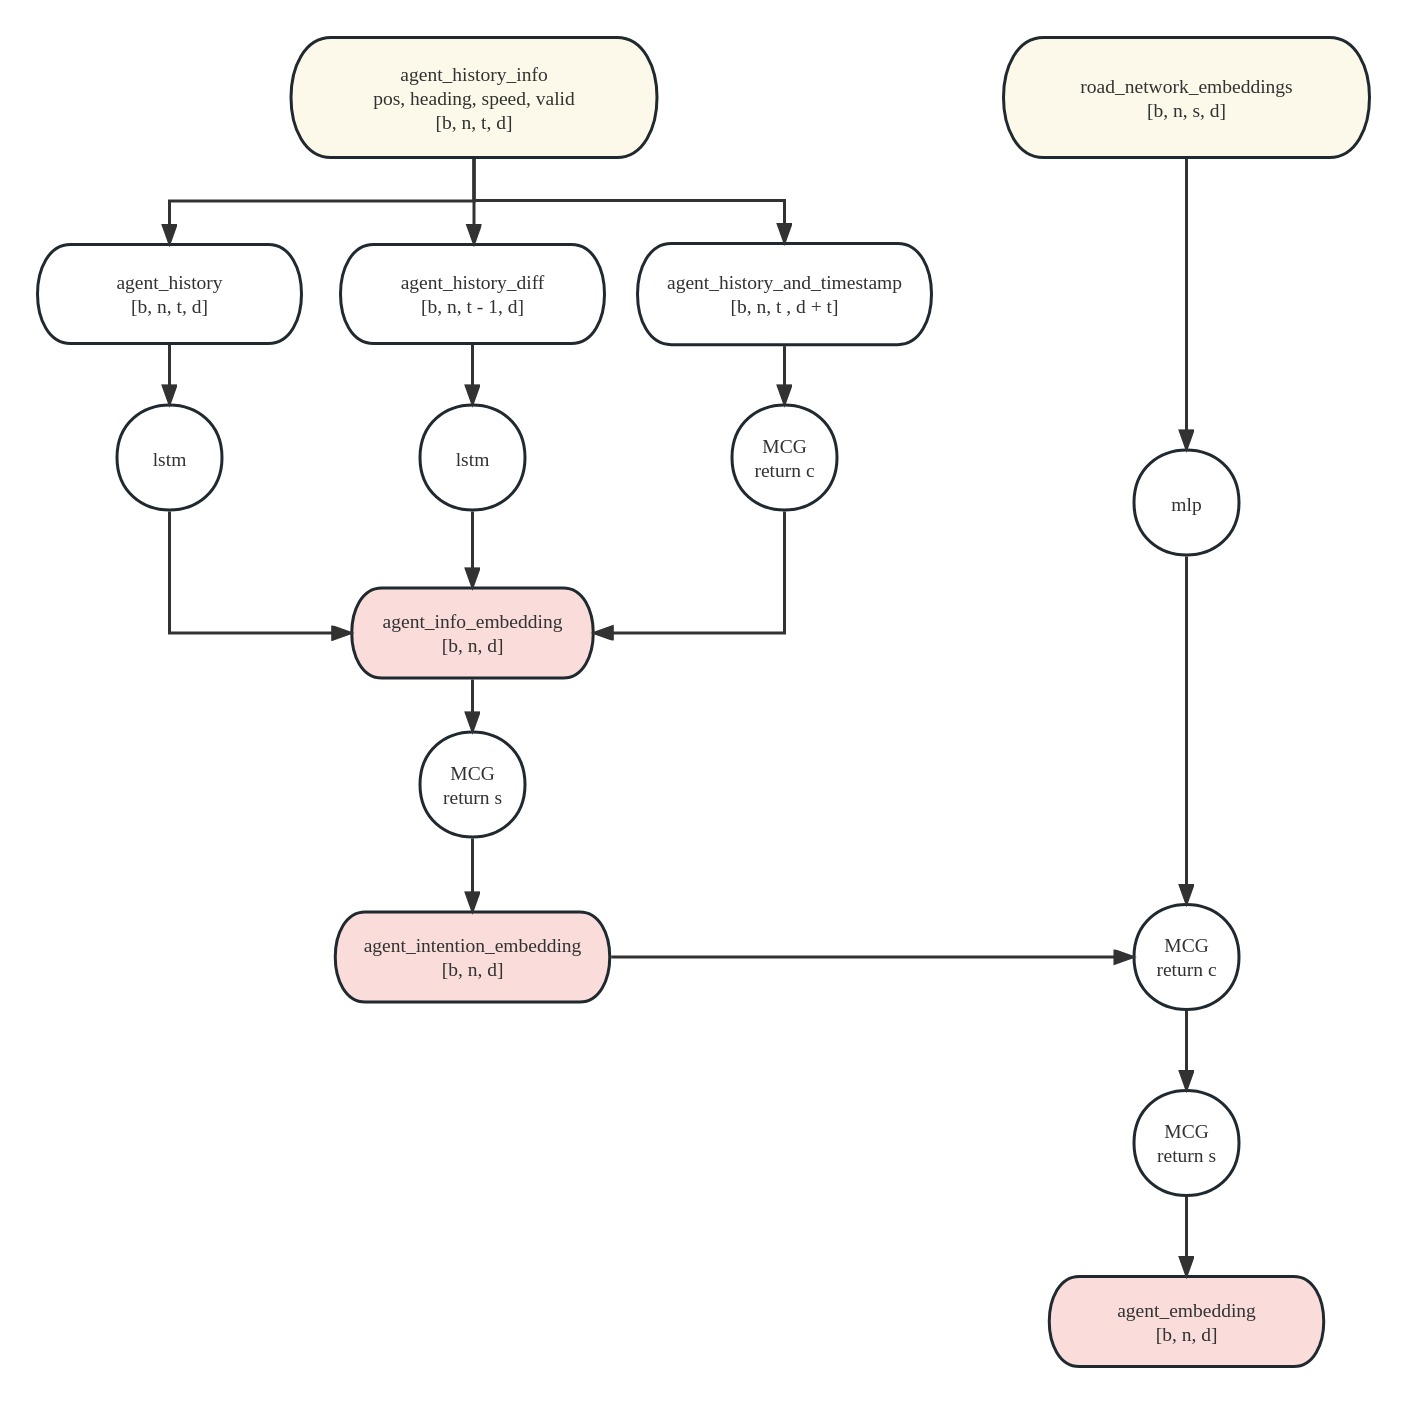
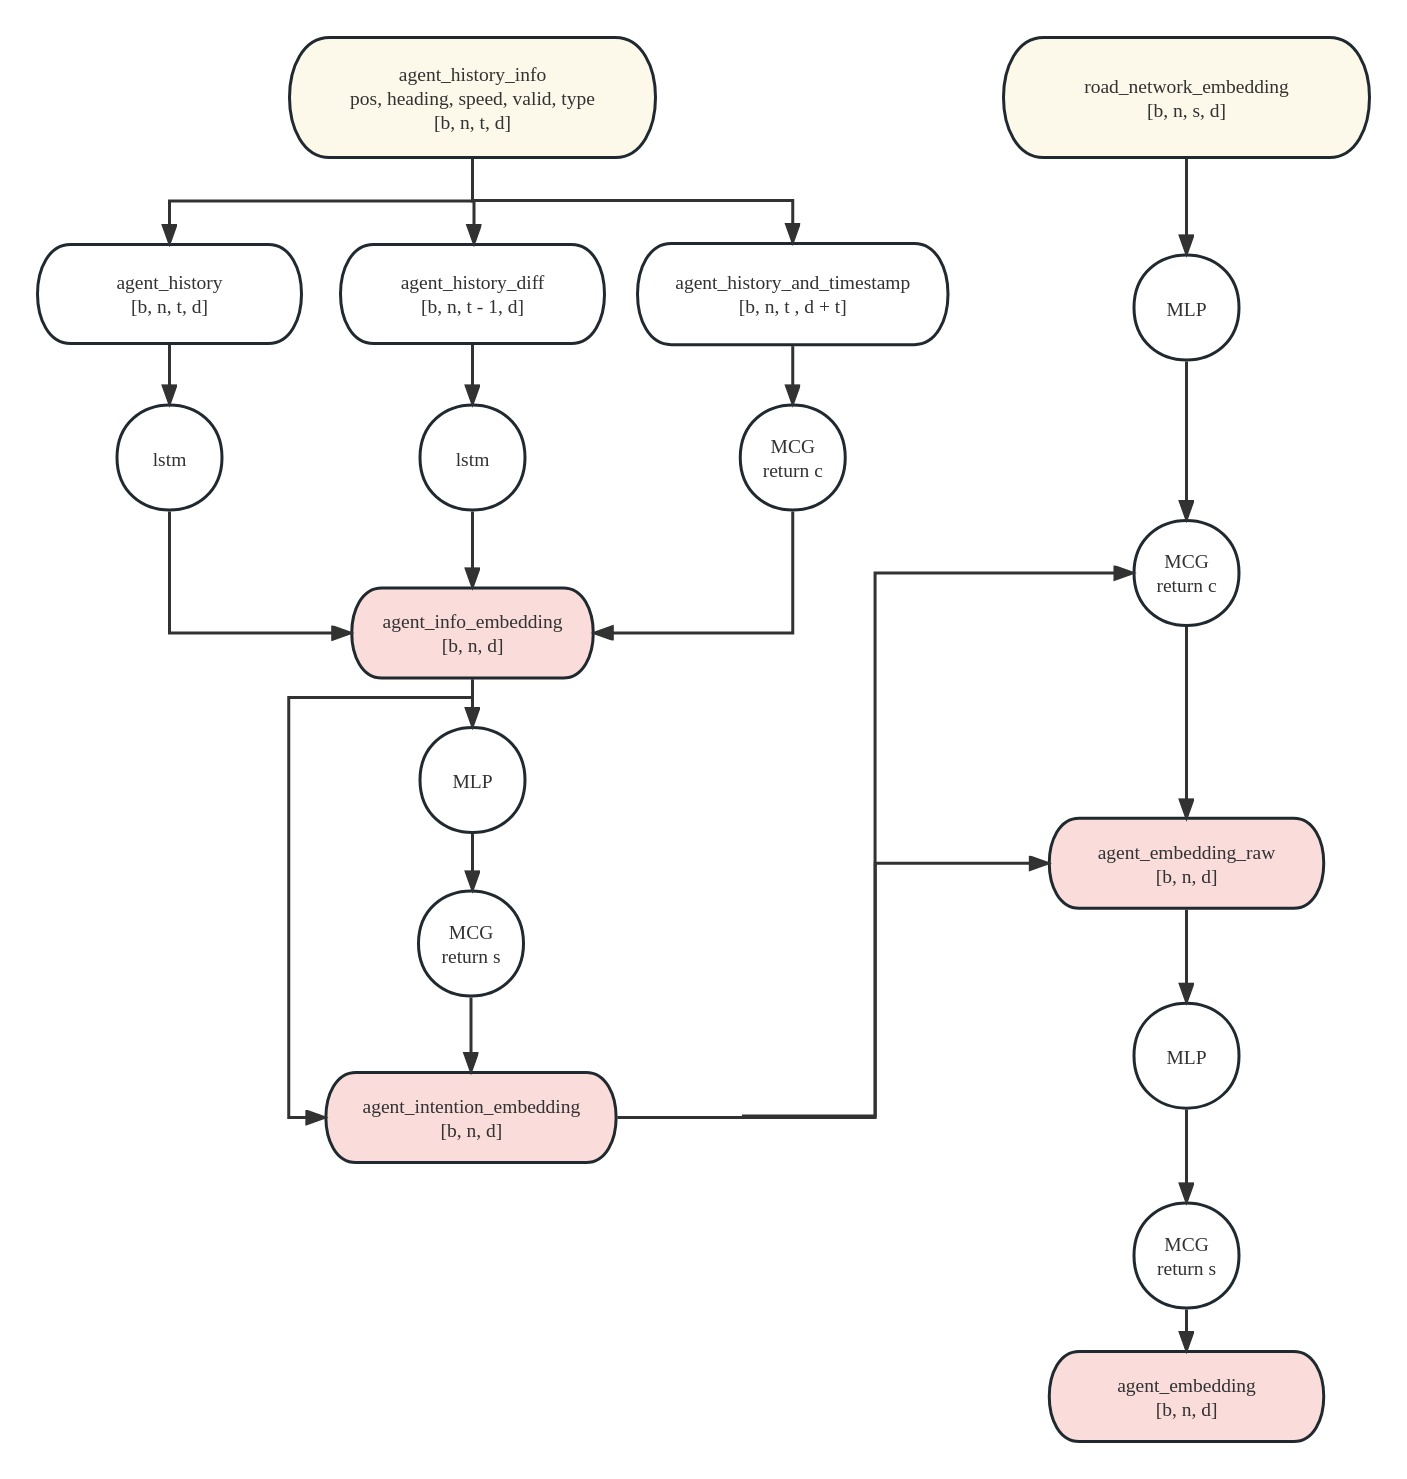
encoder

diff --git a/model/multipathpp.py b/model/multipathpp.py
@@ -6,85 +6,59 @@ class MultiPathPP(nn.Module):
     def __init__(self, config):
         super().__init__()
         self._config = config
-        self._agent_history_encoder = HistoryEncoder(config["agent_history_encoder"])
         self._agent_mcg_linear = NormalMLP(config["agent_mcg_linear"])
-        self._interaction_mcg_linear = NormalMLP(config["interaction_mcg_linear"])
-        self._interaction_history_encoder = HistoryEncoder(config["interaction_history_encoder"])
-        self._polyline_encoder = NormalMLP(config["polyline_encoder"])
-        self._history_mcg_encoder = MCGBlock(config["history_mcg_encoder"])
+        self._agent_history_encoder = HistoryEncoder(config["agent_history_encoder"])
+        self._agent_info_linear = MLP(config["agent_info_linear"])
         self._interaction_mcg_encoder = MCGBlock(config["interaction_mcg_encoder"])
-        self._agent_and_interaction_linear = NormalMLP(config["agent_and_interaction_linear"])
+        self._agent_intention_linear = NormalMLP(config["agent_intention_linear"])
+        self._polyline_encoder = NormalMLP(config["polyline_encoder"])
         self._roadgraph_mcg_encoder = MCGBlock(config["roadgraph_mcg_encoder"])
+        self._agent_linear = MLP(config["agent_linear"])
+        self._agent_mcg_encoder = MCGBlock(config["agent_mcg_encoder"])
         self._decoder_handler = DecoderHandler(config["decoder_handler_config"])
-        if config["multiple_predictions"]:
-            self._decoder = Decoder(config["final_decoder"])
-        if config["make_em"]:
-            self._em = EM()
-        if self._config["mha_decoder"]:
-            self._mha_decoder = MHA(config["mha_decoder"])
     
     def forward(self, data, num_steps):
-        target_scatter_numbers = torch.ones(data["batch_size"], dtype=torch.long).cuda()
-        target_scatter_idx = torch.arange(data["batch_size"], dtype=torch.long).cuda()
-        target_mcg_input_data_linear = self._agent_mcg_linear(data["target/history/mcg_input_data"])
-        assert torch.isfinite(target_mcg_input_data_linear).all()
-        target_agents_embeddings = self._agent_history_encoder(
-            target_scatter_numbers, target_scatter_idx, data["target/history/lstm_data"],
-            data["target/history/lstm_data_diff"], target_mcg_input_data_linear)
-        assert torch.isfinite(target_agents_embeddings).all()
-        other_mcg_input_data_linear = self._interaction_mcg_linear(
-            data["other/history/mcg_input_data"])
-        assert torch.isfinite(other_mcg_input_data_linear).all()
-
-        interaction_agents_embeddings = self._interaction_history_encoder(
-            data["other_agent_history_scatter_numbers"], data["other_agent_history_scatter_idx"],
-            data["other/history/lstm_data"], data["other/history/lstm_data_diff"],
-            other_mcg_input_data_linear)
-        assert torch.isfinite(interaction_agents_embeddings).all()
-        target_mcg_embedding = self._history_mcg_encoder(
-            target_scatter_numbers, target_scatter_idx, target_agents_embeddings)
-        assert torch.isfinite(target_mcg_embedding).all()
-        interaction_mcg_embedding = self._interaction_mcg_encoder(
-            data["other_agent_history_scatter_numbers"], data["other_agent_history_scatter_idx"],
-            interaction_agents_embeddings, target_agents_embeddings)
-        assert torch.isfinite(interaction_mcg_embedding).all()
+        # Encoder
+        # mcg_input_data_linear is [b, n, t, 128]
+        mcg_input_data_linear = self._agent_mcg_linear(data["history/mcg_input_data"])
+        assert torch.isfinite(mcg_input_data_linear).all()
+        # agents_info_embeddings is [b, n, 256]
+        agents_info_embeddings = self._agent_history_encoder(
+            data["target/history/lstm_data"], data["target/history/lstm_data_diff"],
+            mcg_input_data_linear)
+        agents_info_embeddings = self._agent_info_linear(agents_info_embeddings)
+        assert torch.isfinite(agents_info_embeddings).all()
+        # agent_interaction_embedding is [b, n, 256]
+        # s is [b, n, n, 256], c is [b, n, 256](it will be expanded to [b, n, 1, 256] in MCG)
+        agent_interaction_embedding = self._interaction_mcg_encoder(
+            torch.repeat(agents_info_embeddings.unsqueeze(1), [1, agents_info_embeddings.shape[1], 1, 1]), 
+            agents_info_embeddings, return_s=False)
+        assert torch.isfinite(agent_interaction_embedding).all()
+        # agent_intention_embedding is [b, n, 128]
+        agent_intention_embedding = torch.cat(
+            [agents_info_embeddings, agent_interaction_embedding], axis=-1)
+        agent_intention_embedding = self._agent_intention_linear(agent_intention_embedding)
+        assert torch.isfinite(agent_intention_embedding).all()
+        # segment_embeddings is [b, n, s, 128]
         segment_embeddings = self._polyline_encoder(data["road_network_embeddings"])
         assert torch.isfinite(segment_embeddings).all()
-        target_and_interaction_embedding = torch.cat(
-            [target_mcg_embedding, interaction_mcg_embedding], axis=-1)
-        assert torch.isfinite(target_and_interaction_embedding).all()
-        target_and_interaction_embedding_linear = self._agent_and_interaction_linear(
-            target_and_interaction_embedding)
-        assert torch.isfinite(target_and_interaction_embedding_linear).all()
+        # roadgraph_mcg_embedding is [b, n, 128]
+        # s is [b, n, s, 128], c is [b, n, 128](it will be expanded to [b, n, 1, 128] in MCG)
         roadgraph_mcg_embedding = self._roadgraph_mcg_encoder(
-            data["road_network_scatter_numbers"], data["road_network_scatter_idx"],
-            segment_embeddings, target_and_interaction_embedding_linear)
+            segment_embeddings, agent_intention_embedding, return_s=False)
         assert torch.isfinite(roadgraph_mcg_embedding).all()
-        final_embedding = torch.cat(
-            [target_mcg_embedding, interaction_mcg_embedding, roadgraph_mcg_embedding], dim=-1)
-        assert torch.isfinite(final_embedding).all()
-        if self._config["multiple_predictions"]:
-            if self._config["make_em"]:
-                probas, coordinates, covariance_matrices, loss_coeff = self._decoder_handler(
-                    target_scatter_numbers, target_scatter_idx, final_embedding, data["batch_size"])
-                if num_steps > 1000:
-                    probas, coordinates, covariance_matrices = self._em(
-                        probas, coordinates, covariance_matrices)
-                return probas, coordinates, covariance_matrices, loss_coeff
-            trajectories_embeddings, loss_coeff = self._decoder_handler(
-                target_scatter_numbers, target_scatter_idx, final_embedding, data["batch_size"])
-            if self._config["mha_decoder"]:
-                trajectories_embeddings = self._mha_decoder(trajectories_embeddings)
-            trajectories_embeddings, _ = trajectories_embeddings.max(dim=1)
-            probas, coordinates, covariance_matrices = self._decoder(
-                target_scatter_numbers, target_scatter_idx, trajectories_embeddings,
-                data["batch_size"])
-        else:
-            probas, coordinates, covariance_matrices, loss_coeff = self._decoder_handler(
-                target_scatter_numbers, target_scatter_idx, final_embedding, data["batch_size"])
-            assert probas.shape[1] == coordinates.shape[1] == covariance_matrices.shape[1] == 6
+        # agent_embedding is [b, n, 128]
+        agent_embedding = torch.cat(
+            [agent_intention_embedding, roadgraph_mcg_embedding], dim=-1)
+        agent_embedding = self._agent_linear(agent_embedding)
+        agent_embedding = self._agent_mcg_encoder(agent_embedding, return_s=False)
+        assert torch.isfinite(agent_embedding).all()
+
+        # Decoder
+        probas, coordinates, covariance_matrices, loss_coeff = self._decoder_handler(
+            agent_embedding, data["batch_size"])
+        assert probas.shape[2] == coordinates.shape[2] == covariance_matrices.shape[2] == 6
         assert torch.isfinite(probas).all()
         assert torch.isfinite(coordinates).all()
         assert torch.isfinite(covariance_matrices).all()
-
         return probas, coordinates, covariance_matrices, loss_coeff

diff --git a/model/modules.py b/model/modules.py
@@ -47,17 +47,11 @@ class NormalMLP(nn.Module):
         self._mlp = nn.ModuleList(modules)
 
     def forward(self, x):
-        tmp = []
-        prev_x_shape = x.shape
         assert torch.isfinite(x).all()
-        tmp.append(x)
         for l in self._mlp:
             x = l(x)
-            tmp.append(x)
             assert torch.isfinite(x).all()
         return x
-        output = self._mlp(x)
-        return output
             
 
 class CGBlock(nn.Module):
@@ -69,7 +63,7 @@ class CGBlock(nn.Module):
         self.n_in = self.s_mlp.n_in
         self.n_out = self.s_mlp.n_out
 
-    def forward(self, scatter_numbers, s, c):
+    def forward(self, s, c):
         prev_s_shape, prev_c_shape = s.shape, c.shape
         s = self.s_mlp(s.view(-1, s.shape[-1])).view(prev_s_shape)
         c = self.c_mlp(c.view(-1, c.shape[-1])).view(prev_c_shape)
@@ -99,13 +93,14 @@ class MCGBlock(nn.Module):
         self._blocks = nn.ModuleList(self._blocks)
         self.n_in = self._blocks[0].n_in
         self.n_out = self._blocks[-1].n_out
-    
-    def _repeat_tensor(self, tensor, scatter_numbers, axis=0):
-        result = []
-        for i in range(len(scatter_numbers)):
-            result.append(tensor[[i]].expand((int(scatter_numbers[i]), -1, -1)))
-        result = torch.cat(result, axis=0)
-        return result
+
+    def _check_sc_valid(self, s, c):
+        # s is [..., n, d], c is [..., 1, d]
+        assert s.shape[: -2] == c.shape[: -2]
+        assert s.shape[-1] == c.shape[-1]
+        assert c.shape[-2] == 1
+        assert torch.isfinite(s).all()
+        assert torch.isfinite(c).all()
 
     def _compute_running_mean(self, prevoius_mean, new_value, i):
         if self._config["running_mean_mode"] == "real":
@@ -115,19 +110,19 @@ class MCGBlock(nn.Module):
             result = self._config["alpha"] * prevoius_mean + self._config["beta"] * new_value
         return result
 
-    def forward(
-            self, scatter_numbers, scatter_idx, s, c=None, aggregate_batch=True, return_s=False):
+    def forward(self, s, c=None, return_s=False):
         if c is None:
             assert self._config["identity_c_mlp"]
-            c = torch.ones(s.shape[0], 1, self.n_in, requires_grad=True).cuda()
+            c = torch.ones(*s.shape[: -2], 1, s.shape[-1], requires_grad=True).cuda()
         else:
             assert not self._config["identity_c_mlp"]
-            c = self._repeat_tensor(c, scatter_numbers)
-            assert torch.isfinite(s).all()
-            assert torch.isfinite(c).all()
+            if len(c.shape) < len(s.shape):
+                c = c.unsqueeze(-2)
+        self._check_sc_valid(s, c)
+
         running_mean_s, running_mean_c = s, c
         for i, cg_block in enumerate(self._blocks, start=1):
-            s, c = cg_block(scatter_numbers, running_mean_s, running_mean_c)
+            s, c = cg_block(running_mean_s, running_mean_c)
             assert torch.isfinite(s).all()
             assert torch.isfinite(c).all()
             running_mean_s = self._compute_running_mean(running_mean_s, s, i)
@@ -135,10 +130,9 @@ class MCGBlock(nn.Module):
             assert torch.isfinite(running_mean_s).all()
             assert torch.isfinite(running_mean_c).all()
         if return_s:
-            return running_mean_s 
-        if aggregate_batch:
-            return scatter_max(running_mean_c, scatter_idx, dim=0)[0]
-        return running_mean_c
+            return running_mean_s
+        else:
+            return running_mean_c.squeeze()
 
 
 class Decoder(nn.Module):
@@ -167,7 +161,7 @@ class Decoder(nn.Module):
         assert torch.isfinite(trajectories_embeddings).all()
         if self._return_embedding:
             return trajectories_embeddings
-        # 
+
         res = self._mlp_decoder(trajectories_embeddings)
         coordinates = res[:, :, :80 * 2].reshape(
             batch_size, self._config["n_trajectories"], 80, 2)
@@ -206,7 +200,7 @@ class DecoderHandler(nn.Module):
         self._decoders = nn.ModuleList([
             Decoder(config["decoder_config"]) for _ in range(self._n_decoders)])
     
-    def forward(self, target_scatter_numbers, target_scatter_idx, final_embedding, batch_size):
+    def forward(self, final_embedding, batch_size):
         stacked_probas, stacked_coordinates, stacked_covariance_matrices = [], [], []
         stacked_embeddings = []
         random_head_selector = np.random.uniform(low=0.0, high=1.0, size=self._n_decoders)
@@ -219,14 +213,14 @@ class DecoderHandler(nn.Module):
         if self._return_embedding:
             for coeff, decoder in zip(random_head_selector, self._decoders):
                 embeddings = decoder(
-                    target_scatter_numbers, target_scatter_idx, final_embedding, batch_size)
+                    final_embedding, batch_size)
                 stacked_embeddings.append(embeddings)
             stacked_embeddings = torch.cat(stacked_embeddings, dim=1)
             return stacked_embeddings, self._n_decoders / random_head_selector.sum()
         else:
             for coeff, decoder in zip(random_head_selector, self._decoders):
                 probas, coordinates, covariance_matrices = decoder(
-                    target_scatter_numbers, target_scatter_idx, final_embedding, batch_size)
+                    final_embedding, batch_size)
                 probas, coordinates, covariance_matrices = [
                     coeff * x + (1 - coeff) * x.detach() for x in [
                         probas, coordinates, covariance_matrices]]
@@ -321,11 +315,10 @@ class HistoryEncoder(nn.Module):
         self._position_diff_lstm = nn.LSTM(batch_first=True, **config["position_diff_lstm_config"])
         self._position_mcg = MCGBlock(config["position_mcg_config"])
 
-    def forward(self, scatter_numbers, scatter_idx, lstm_data, lstm_data_diff, mcg_data):
+    def forward(self, lstm_data, lstm_data_diff, mcg_data):
         position_lstm_embedding = self._position_lstm(lstm_data)[0][:, -1:, :]
         position_diff_lstm_embedding = self._position_diff_lstm(lstm_data_diff)[0][:, -1:, :]
-        position_mcg_embedding = self._position_mcg(
-            scatter_numbers, scatter_idx, mcg_data, aggregate_batch=False)
+        position_mcg_embedding = self._position_mcg(mcg_data, return_s=False)
         return torch.cat([
             position_lstm_embedding, position_diff_lstm_embedding, position_mcg_embedding], axis=-1)
 
@@ -343,8 +336,6 @@ class MHA(nn.Module):
     
     def forward(self, traj_embeddings):
         batch_size = traj_embeddings.shape[0]
-        target_scatter_numbers = torch.ones(batch_size, dtype=torch.long).cuda()
-        target_scatter_idx = torch.arange(batch_size, dtype=torch.long).cuda()
         Q = self._q(traj_embeddings)
         K = self._k(traj_embeddings)
         V = self._v(traj_embeddings)
